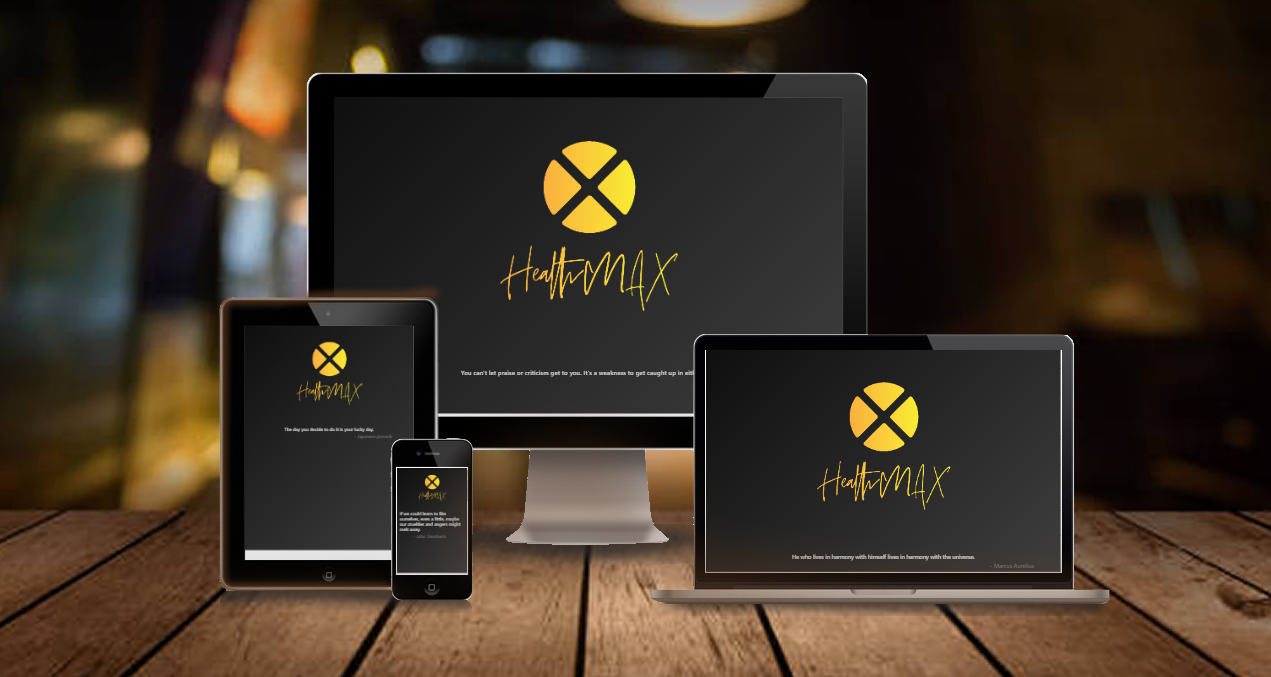
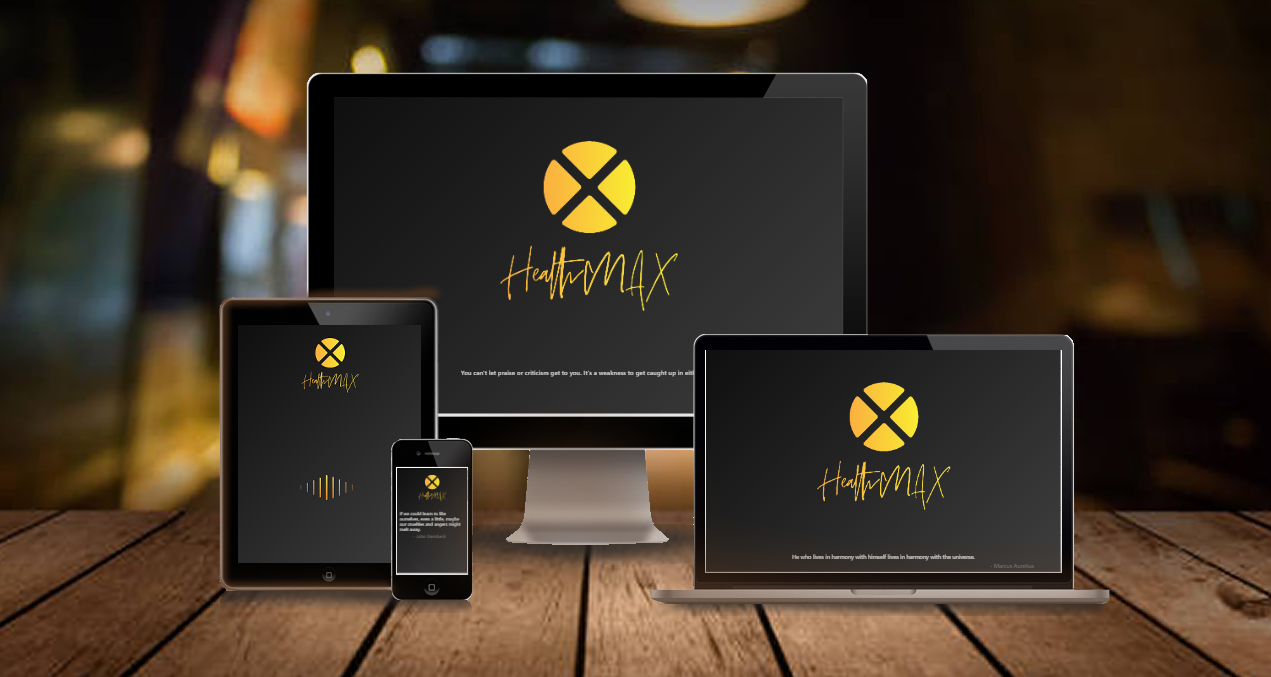
readme - WIP

Changed region(s): [[0.1841, 0.4963, 0.3375, 0.8375], [0.2148, 0.4963, 0.2762, 0.5894], [0.2455, 0.7134, 0.2762, 0.7445]]

diff --git a/README.md b/README.md
@@ -45,16 +45,20 @@ We are also targeting both **veterans** and **new gym-goers** alike. To help use
 ## UI and UX
 The aim of the this application is to create a simple and easy to use and understand layout.
 
-On the landing page, the user will be greeted with motivational quote before proceeding to the map.
+![HealthMAX on different devices](img/readme/device_home.png)
+On the landing page, the user will be greeted with randomly generated motivational quote before proceeding to the map. There will also be a loading bar for user's with slower internet ( Shown above on the tablet device )
+
+## Colors
 
 ## Features
+
+![HealthMAX on different devices](img/readme/device_used.png)
 
 - [x] Search
     * User can interact with text input and the dropdown list for define their search. 
     * Search results of nearby Gym & Studio within 10km radius and display markers for each.
     * Show image and reviews (if any) about selected marker as a popup. 
 <br><br>
-
 
 - [x] Food Search
     * Search for food center within a 500m radius (shown on map) of the selected location.
